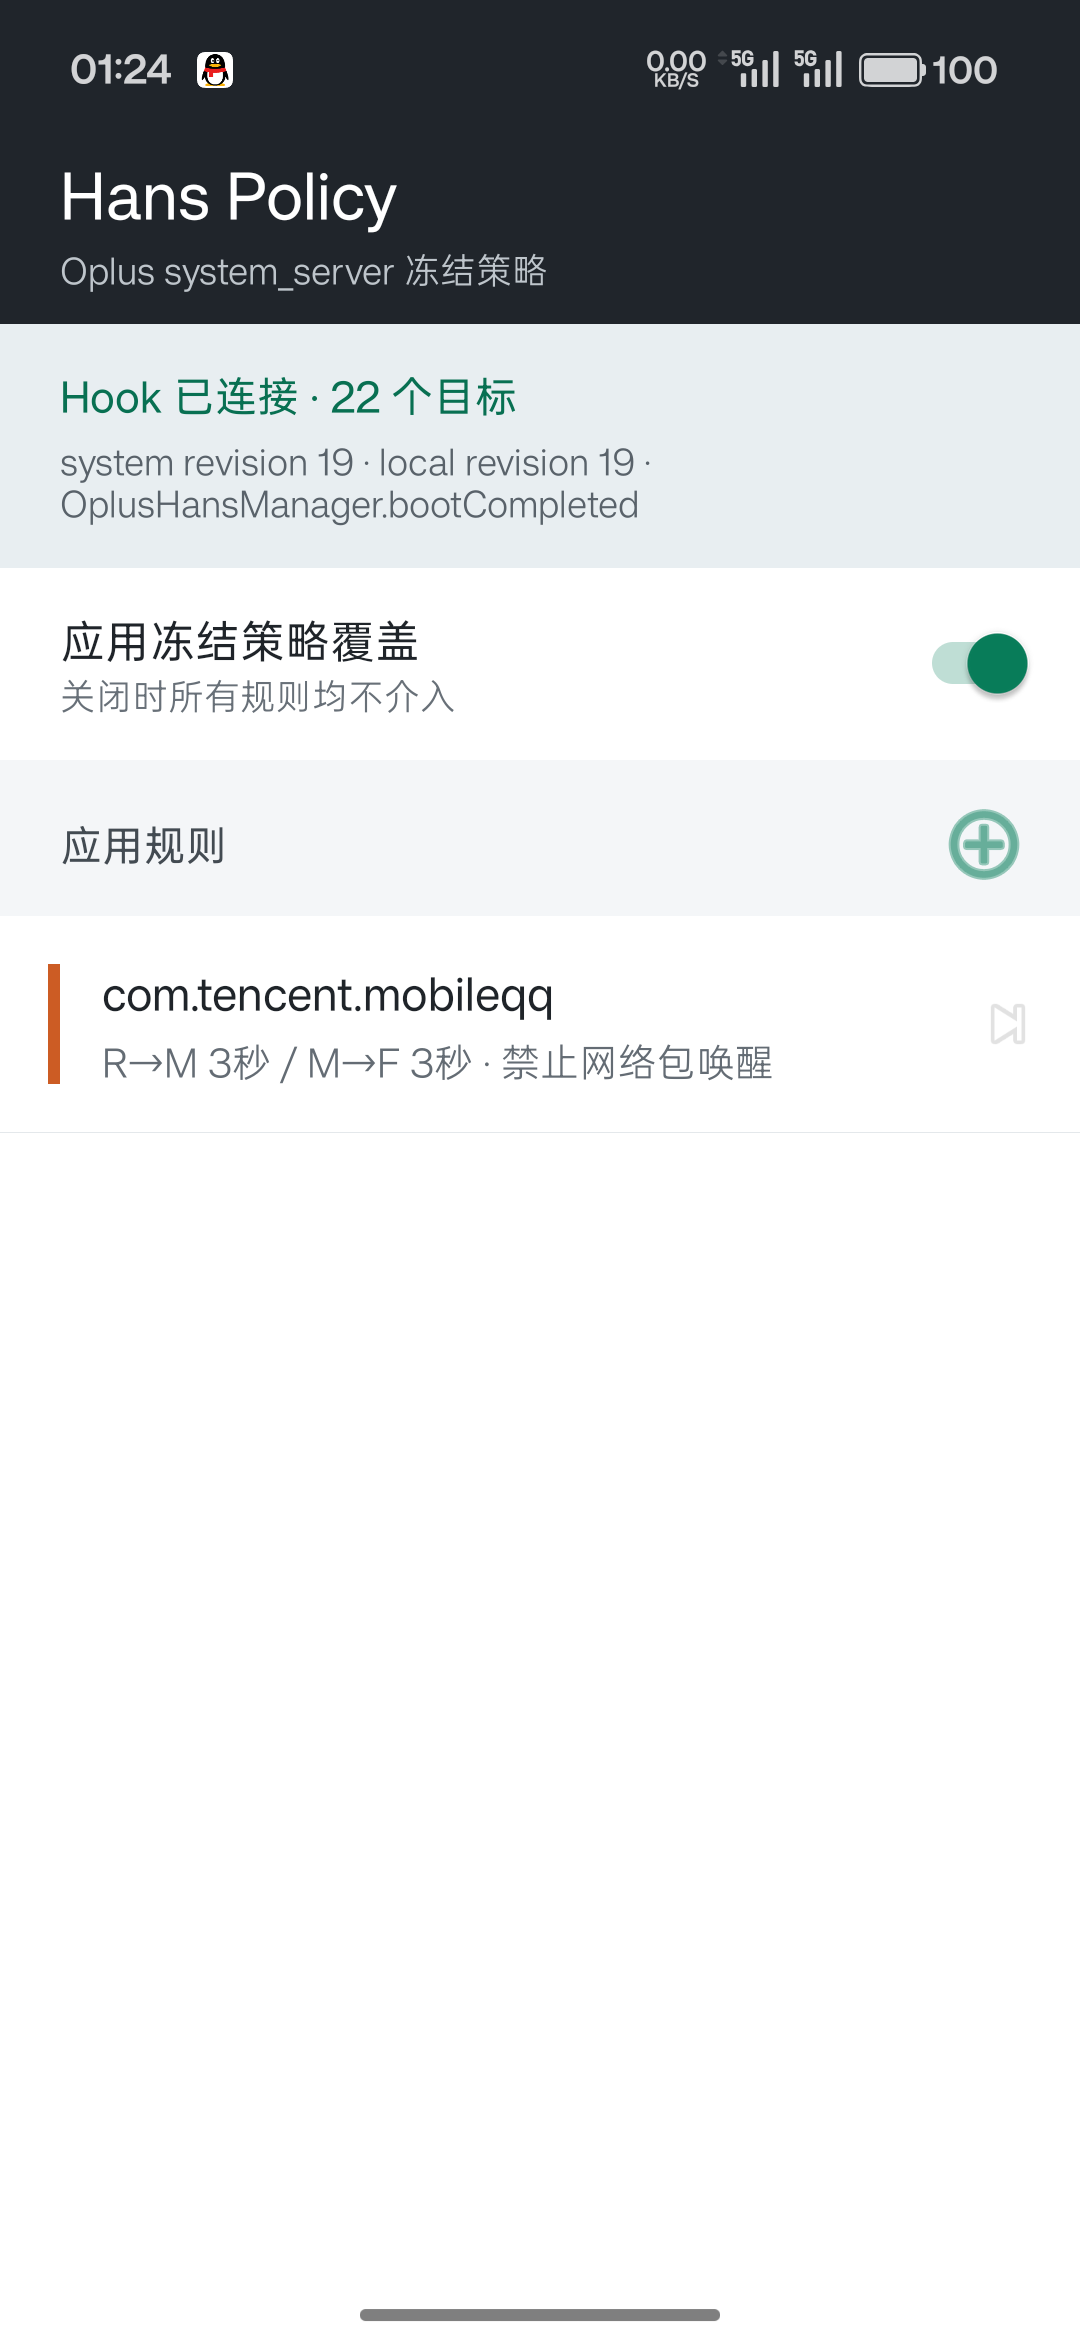
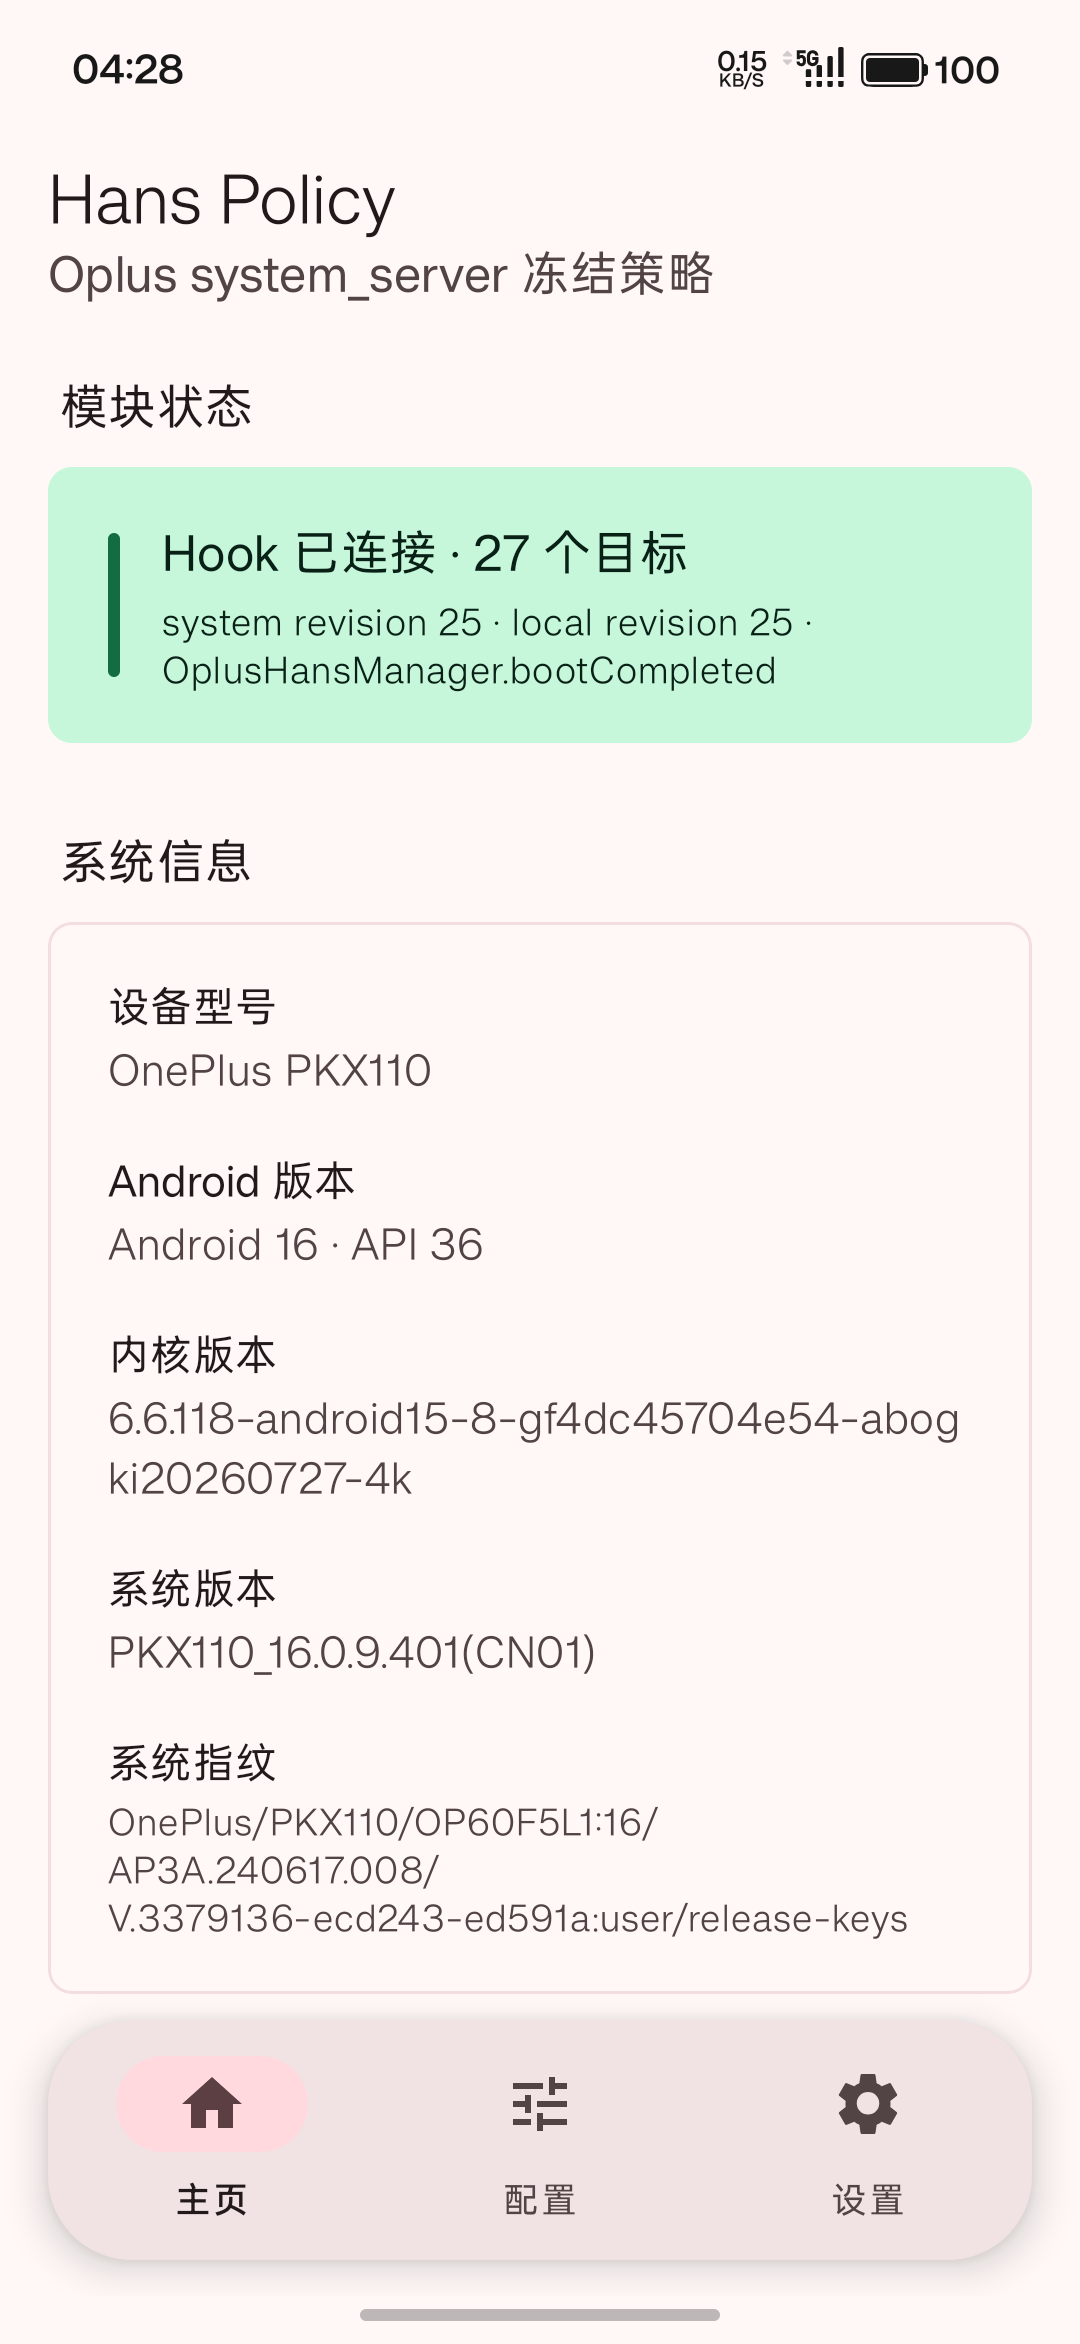
Update policy documentation and screenshots [skip ci]

diff --git a/README.md b/README.md
@@ -12,9 +12,9 @@ writing kernel freezer files or replacing the OEM state machine.
 > Keep an LSPosed/Vector recovery path available and test with the master switch off.
 
 <p align="center">
-  <img src="docs/images/main-screen.png" width="30%" alt="Runtime status and app rules">
-  <img src="docs/images/rule-dialog.png" width="30%" alt="Timing and packet wake controls">
-  <img src="docs/images/packet-control.png" width="30%" alt="Freeze source and resource controls">
+  <img src="docs/images/main-screen.png" width="30%" alt="Module status and system information">
+  <img src="docs/images/rule-dialog.png" width="30%" alt="Per-app freeze policy configuration">
+  <img src="docs/images/packet-control.png" width="30%" alt="Per-source wake blocking">
 </p>
 
 ## Why this exists
@@ -109,13 +109,96 @@ after every OTA before re-enabling the policy master switch.
 Package rules are resolved to current UIDs at runtime. Reinstalling or recreating an app
 does not require editing the rule when its UID changes.
 
+## Policy guide and recommendations
+
+The three similarly named sections act at different stages. **Block freeze sources**
+keeps an app from entering Frozen. **Preserve resources while frozen** relaxes Hans
+proxying and resource cleanup. **Block wake sources** rejects selected events after the
+app is already Frozen. Start with every checkbox clear and add one control at a time
+after identifying its reason in logs.
+
+### Basics and timing
+
+| Setting | Effect | Possible impact | Recommendation |
+| --- | --- | --- | --- |
+| Policy master switch | Enables or disables all package rules together. | Every enabled rule takes effect immediately. | Keep off after first install or OTA; enable only after all 27 hooks report healthy. |
+| Enable this rule | Toggles one package rule without deleting it. | Disabled apps fully follow OEM policy. | Use for A/B comparisons and troubleshooting. |
+| Full Hans exemption | Prevents Hans freezing and restrictions for the app. | Background CPU, network, and power use can rise substantially; wake gates become irrelevant. | Reserve for navigation or continuous playback apps that genuinely cannot be frozen. |
+| Custom R / M / F timing | Replaces the default Hans timing with the two delays below. | A poor combination can freeze too early, delay background behavior, or cause freeze/thaw churn. | Leave off by default; record the OEM timing first and override only an app with a demonstrated need. |
+| R to M delay | Sets how long an app stays Running before Middle after leaving foreground. | Too short proxies components early; too long increases background activity. | Follow system first; if needed, begin around 10-30 seconds. |
+| M to F delay | Sets the wait from Middle to Frozen. | Too short can cause freeze/thaw churn; too long reduces savings. | Follow system first. Three seconds is aggressive and only suitable for validated apps. |
+
+### Block freeze sources
+
+Checking one means “do not let this mechanism freeze the app”; it does not make freezing
+more aggressive.
+
+| Setting | Effect | Possible impact | Recommendation |
+| --- | --- | --- | --- |
+| Normal state-machine freeze | Stops the normal R/M/F path at the final freeze gate. | Most background freezing is disabled and power use rises. | Leave off; adjust timing instead in most cases. |
+| Fast Freezer | Blocks the low-latency freezer entry. | The app can remain active longer after backgrounding. | Enable only when Fast Freezer is confirmed to break behavior. |
+| Super Freeze | Blocks stronger Super Freeze scenes. | Long-idle restrictions weaken and standby drain can rise. | Leave off by default. |
+| Preload freeze | Blocks the preload-specific freezer entry. | Preloaded processes may remain resident. | Use only for an app confirmed to follow this path. |
+
+### Preserve resources while frozen
+
+These settings bypass Hans proxying or cleanup for a resource. They do not guarantee
+that frozen threads can continue executing.
+
+| Setting | Effect | Possible impact | Recommendation |
+| --- | --- | --- | --- |
+| Network and existing connections | Preserves firewall allowance and established connections. | Traffic may continue and persistent sockets stay alive longer. | Use only for required keepalive connections; normally leave off when blocking Packet wakes. |
+| Service dispatch | Does not proxy Service events. | Services can cause more wakeups and background work. | Enable only when delayed services break required behavior. |
+| Job dispatch | Does not proxy JobScheduler work. | Maintenance tasks run more often. | Leave off; enable selectively for required synchronization. |
+| Broadcast delivery | Does not proxy broadcasts. | System and app broadcasts can wake the process frequently. | Leave off by default. |
+| Alarms and timers | Does not proxy Alarm events. | Periodic alarms return and create more wakeups. | Must stay off when throttling or blocking Alarm wakes; use for alarm-class apps only. |
+| Async Binder | Does not proxy corresponding Binder calls. | `W_AsyncBinder` and related wakes can return. | Leave off when the goal is to block Binder wakes. |
+| Sensors | Preserves sensor access. | Continuous sampling increases power use. | Use only for motion or health apps that require it. |
+| Location / GPS | Preserves location resources. | Location and radio power use can rise sharply. | Use only for navigation or track recording. |
+| WakeLock | Preserves app WakeLocks. | The device may fail to enter deep sleep. | Leave off unless proxying demonstrably interrupts required work. |
+| Audio | Preserves audio behavior. | Background audio and focus can remain active. | Enable selectively for music or calling apps. |
+| Bluetooth scan | Preserves Bluetooth scanning. | Scan power and callback volume increase. | Enable selectively for wearable or accessory apps. |
+
+### Block wake sources
+
+Checking one keeps that event from thawing an already frozen UID. New framework reasons
+that are not recognized map to **Other and future unknown reasons**.
+
+| Setting | Effect | Possible impact | Recommendation |
+| --- | --- | --- | --- |
+| Async Binder, including `W_AsyncBinder` | Rejects async Binder callbacks before native thaw. | Phone-state, observer, and other one-way callbacks are delayed. | Enable after logs confirm useless wakes; recommended for the validated QQ sample. |
+| Sync Binder | Prevents synchronous Binder from thawing the target. | The caller can block, time out, or fail. | High risk; leave off. |
+| Transaction Binder | Prevents transaction-style Binder thaw. | Cross-process features can fail. | Leave off unless a specific useless transaction is identified. |
+| Process signal | Prevents signal-triggered thaw. | Termination, diagnostics, or native recovery can be delayed. | High risk; leave off. |
+| Activity / Input | Prevents Activity, relaunch, and input thaw. | The user may be unable to open or operate the app. | Extreme risk; do not enable. |
+| Service / Bind / Restart | Prevents service start, bind, and restart thaw. | Push services, foreground services, or bindings can fail. | Leave off; test only for nonessential background services. |
+| Broadcast | Prevents broadcast-triggered thaw. | Push, system-state, and app events are delayed. | Test for non-communication apps; normally leave off for messaging. |
+| Content Provider | Prevents provider-access thaw. | Calling processes can block or fail queries. | High risk; leave off. |
+| Job / Sync | Prevents scheduled task and sync thaw. | Cloud sync, backup, and maintenance are deferred. | Suitable only for apps without required background sync. |
+| WakeLock | Prevents WorkSource/WakeLock attribution from thawing the app. | Background work that relies on the WakeLock can fail. | Enable when logs confirm useless WakeLock wakes. |
+| Audio / media / Bluetooth control | Prevents playback and control-event thaw. | Background playback, headset control, and calls can fail. | Leave off for media/calling apps; test by logs elsewhere. |
+| Connectivity / navigation / traffic | Prevents network-state and navigation-scene thaw. | Network changes and navigation state are not processed promptly. | Leave off by default. |
+| System scenes and lifecycle | Prevents screen, sleep-exit, Watchdog, and similar thaw. | Lifecycle recovery and system cleanup can break. | Extreme risk; do not enable. |
+| Other and future unknown reasons | Blocks every unclassified framework reason. | A required reason added by an OTA can also be blocked. | Leave off; use only for short diagnostic tests. |
+
+### Suggested profiles
+
+| Goal | Suggested configuration |
+| --- | --- |
+| Conservative observation | Follow OEM timing, Packet, and Alarm behavior; clear every checkbox and inspect logs first. |
+| Ordinary non-realtime app | Packet throttle at 60-300 seconds and Alarm throttle at 15 minutes; add Async Binder, Job/Sync, or WakeLock gates only when logs justify them. |
+| Aggressive policy for the validated QQ sample | Block Packet and Alarm, and check only Async Binder. Do not check Activity/Input, system scenes, Sync Binder, Provider, or Signal. Messages and VoIP can be delayed. |
+| App that must work continuously | Preserve only the required network, audio, location, or related resource first; use full Hans exemption only if selective preservation is insufficient. |
+
 ## Packet wake policy
 
-| Mode | Behavior |
-| --- | --- |
-| Follow system | Hans handles every Packet wake normally. |
-| Throttle | The first Packet wake is allowed; later events inside the configured cooldown are blocked. |
-| Block | Every `type=4` Packet wake for the matched UID is suppressed. |
+| Mode | Effect | Possible impact | Recommendation |
+| --- | --- | --- | --- |
+| Follow system | Hans handles every Packet wake normally. | Background packets can thaw the app frequently. | Use for messaging, VoIP, or initial testing. |
+| Throttle | The first Packet wake is allowed; later events inside the cooldown are blocked. | Messages and network work can be delayed inside the window. | Balanced option; begin around 60-300 seconds. |
+| Block | Every `type=4` Packet wake for the matched UID is suppressed. | Messaging, VoIP, and persistent-socket progress may wait for another wake or foreground launch. | Use only when background realtime communication is not required. |
+| Minimum wake interval | Sets the cooldown between allowed thaws in Throttle mode. | Longer values reduce wakes but increase network-event latency. | Start at 60-300 seconds; unused in Follow system and Block modes. |
+| Custom post-wake hold time | Overrides this Packet thaw's M-to-F refreeze delay. | Too short can refreeze before network work completes; too long expands the background execution window. | Leave off initially; after measuring task duration, start around 5-15 seconds. Unused in Block mode. |
 
 Blocking Packet wake can delay messages, VoIP signaling, socket progress, and other
 background network work. It does not drop packets at the firewall; it prevents that Hans
@@ -129,11 +212,13 @@ minutes and entered
 
 ## Alarm wake policy
 
-| Mode | Behavior |
-| --- | --- |
-| Follow system | Hans handles an expired Alarm normally. |
-| Throttle | The first Alarm wake is allowed; later events inside the cooldown remain proxied. |
-| Block | Matching Alarm delivery is suppressed before `reason=Alarm` can unfreeze the UID. |
+| Mode | Effect | Possible impact | Recommendation |
+| --- | --- | --- | --- |
+| Follow system | Hans handles an expired Alarm normally. | Periodic alarms can thaw the app frequently. | Use for alarms, calendars, health reminders, and other time-sensitive apps. |
+| Throttle | The first Alarm wake is allowed; later events inside the cooldown remain proxied. | Scheduled tasks are delayed inside the window. | Balanced option; the default cooldown is 15 minutes. |
+| Block | Matching Alarm delivery is suppressed before `reason=Alarm` can thaw the UID. | Background timers, reminders, or keepalive work may not execute. | Use for confirmed periodic wakes with no timing requirement. |
+| Minimum wake interval | Sets the cooldown between allowed Alarm thaws in Throttle mode. | Longer values cause more visible task coalescing or delay. | Keep the 15-minute default initially; unused in Follow system and Block modes. |
+| Custom post-wake hold time | Overrides this Alarm thaw's M-to-F refreeze delay. | Too short can interrupt scheduled work; too long lets periodic alarms create extra background activity. | Leave off initially; use only when a task needs a fixed window, starting around 10-30 seconds. Unused in Block mode. |
 
 This controls Alarm delivery for a frozen app; it does not delete alarms registered by
 the app. The separate "preserve alarms" resource option has the opposite purpose and
